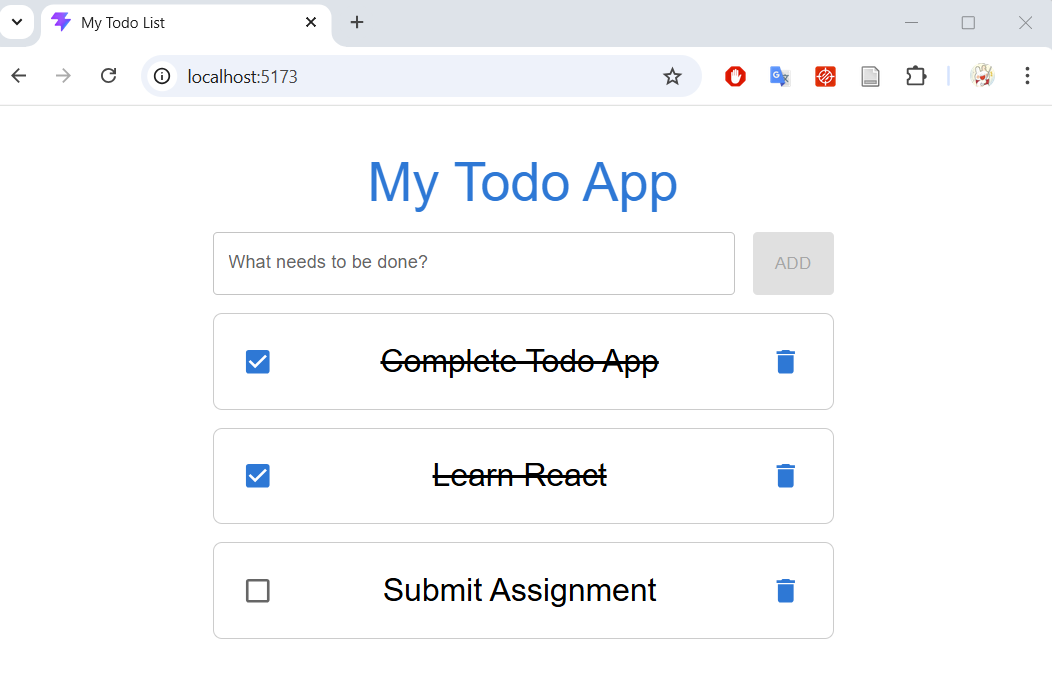
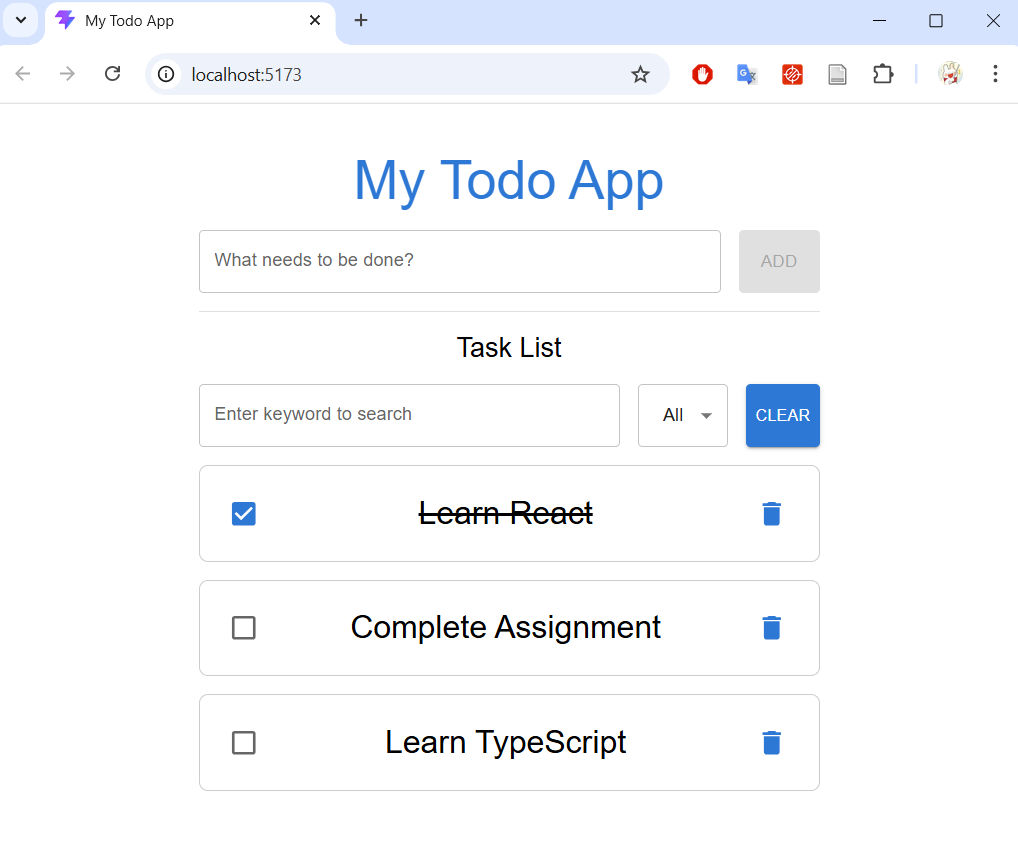
docs: update README with new search feature

diff --git a/README.md b/README.md
@@ -1,16 +1,20 @@
 # Todo App
 
-A Todo List application built with the **MERN Stack** (MongoDB, Express, React, Node.js).
+A full-stack Todo List application built with the **MERN Stack** (MongoDB, Express, React, Node.js). It uses **Redux Toolkit** for smooth state management and **Material UI v7** for a clean, professional design.
 
 ![image.png](image.png)
 
 ## About the Project
-### Tech Stack
-- **Frontend**: Vite + TypeScript + React Compiler, Redux Toolkit, Material UI v7
-- **Backend**: Express, Mongoose
-
 ### Features
-- CRUD: View, add, edit, delete, mark tasks as complete/incomplete
+CRUD Operations
+- Create: Add new tasks with validation (prevents empty entries).
+- Read:  View all tasks, including completed ones.
+- Update: Modify task titles or toggle status between complete and incomplete. Includes a "click-outside" listener to cancel active editing.
+- Delete: Permanently remove tasks from the system.
+
+Filter & Search
+- Search: Find specific tasks by title (case insensitive and partial-match suppported).
+- Filter: Filter tasks by status (options include All, To-do, and Completed).
 
 ### Origin
 This project represents an **evolved version** of my earlier works, it consolidates the core features and technical patterns developed across my previous repositories into a single application:
